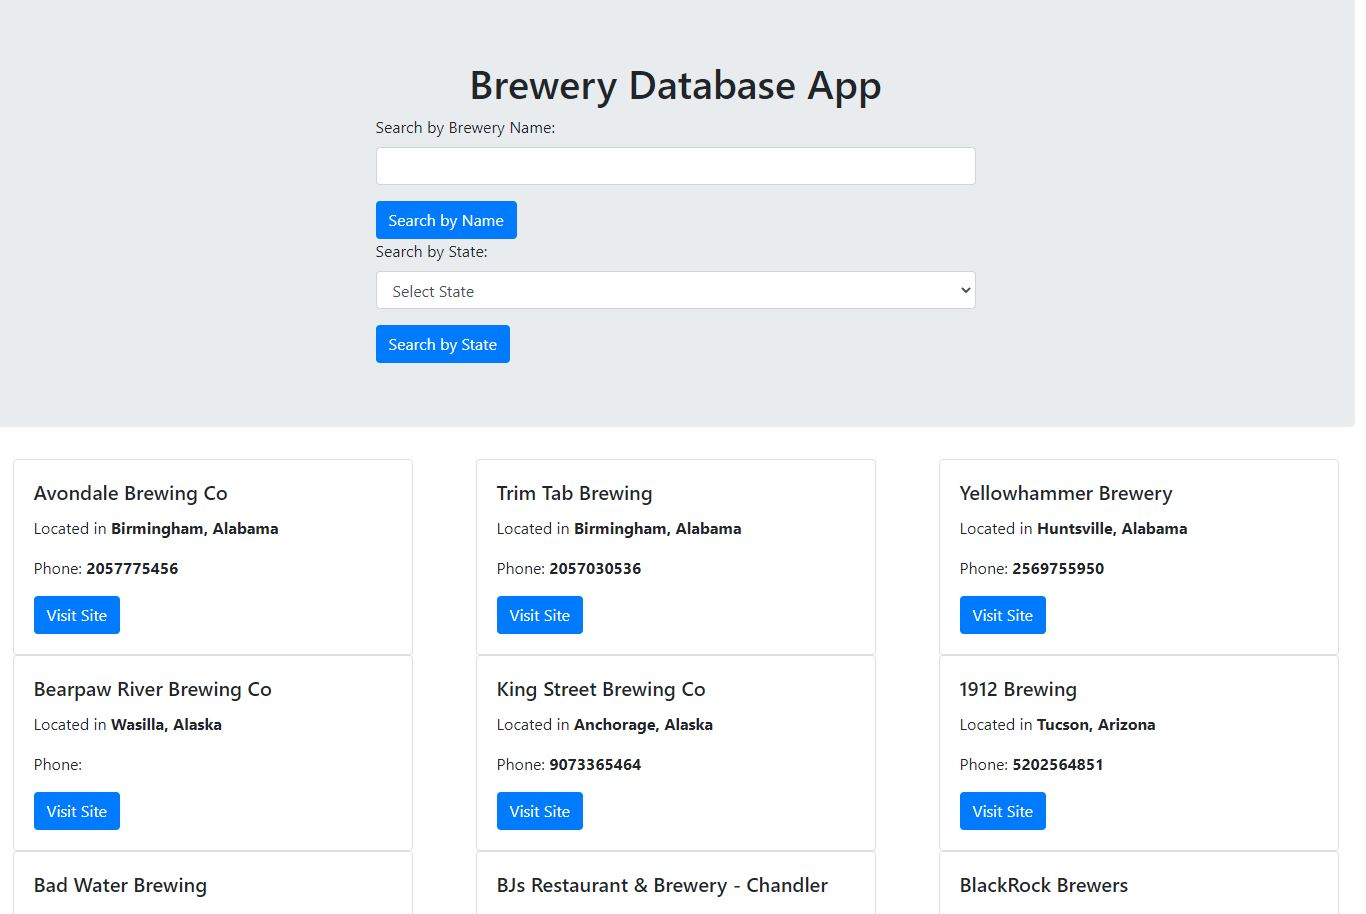
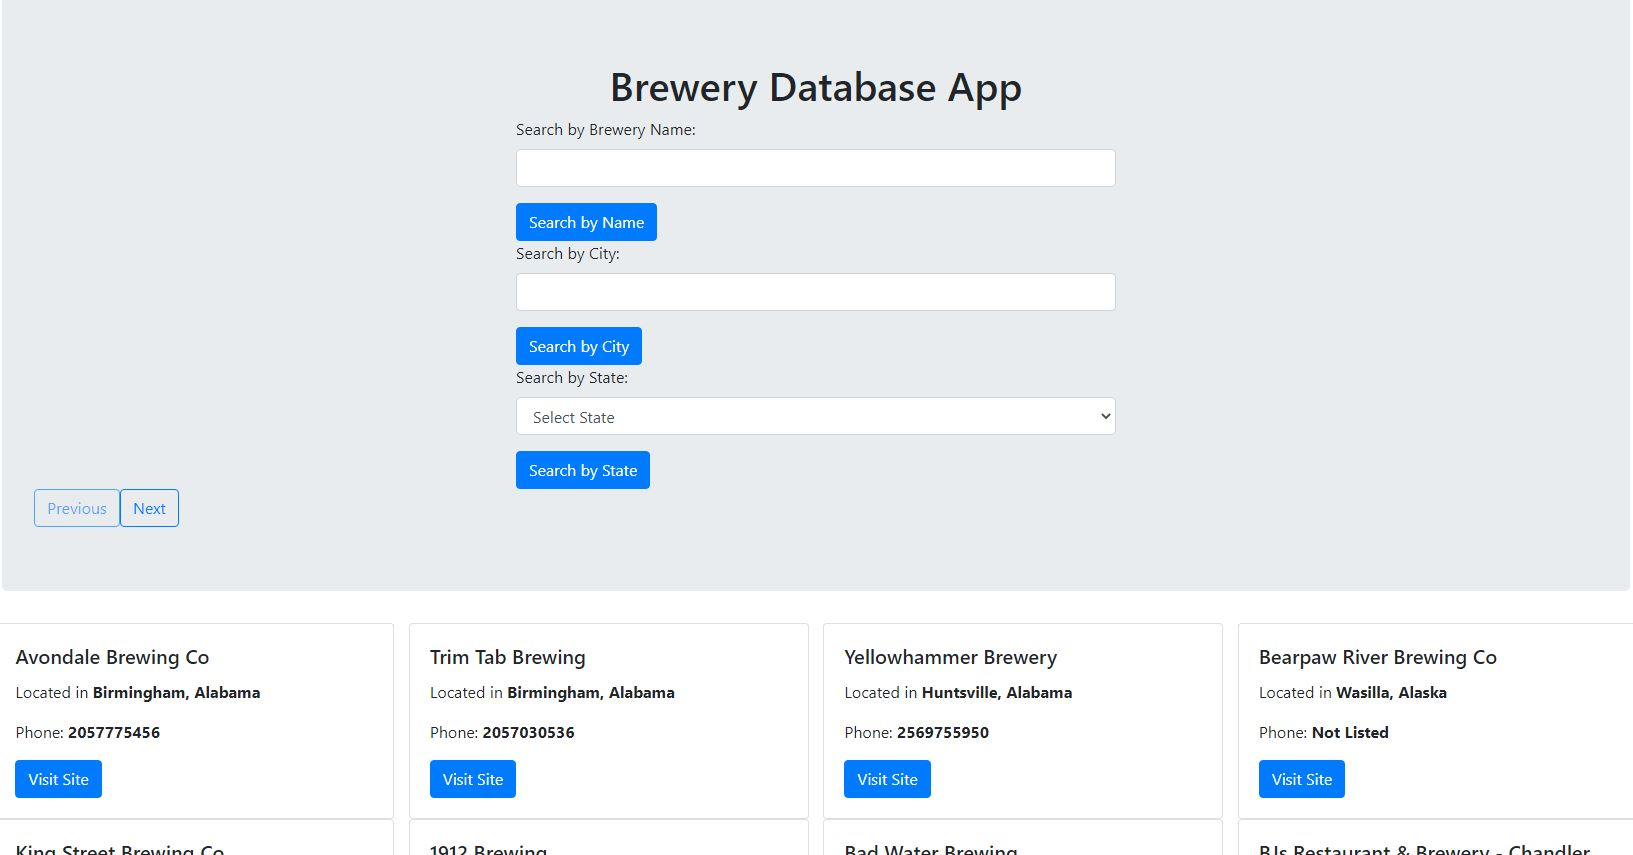
updated screenshot. Edited README

diff --git a/README.md b/README.md
@@ -27,7 +27,7 @@ In addition, this is the first application that I have used in React where I con
 
 Lastly, I used Bootstrap 4 for the styling, gaining more experience using that library. 
 
-Update: I added pagination functionality for brewery cards that populate, and a conditional render for brewery phone numbers that are not in the API. 
+Update: I added pagination functionality for brewery cards that populate, and a conditional render for brewery phone numbers that are not in the API. In addition to searching by state and brewery name, users can now search by city. 
 
 ### Author
 
